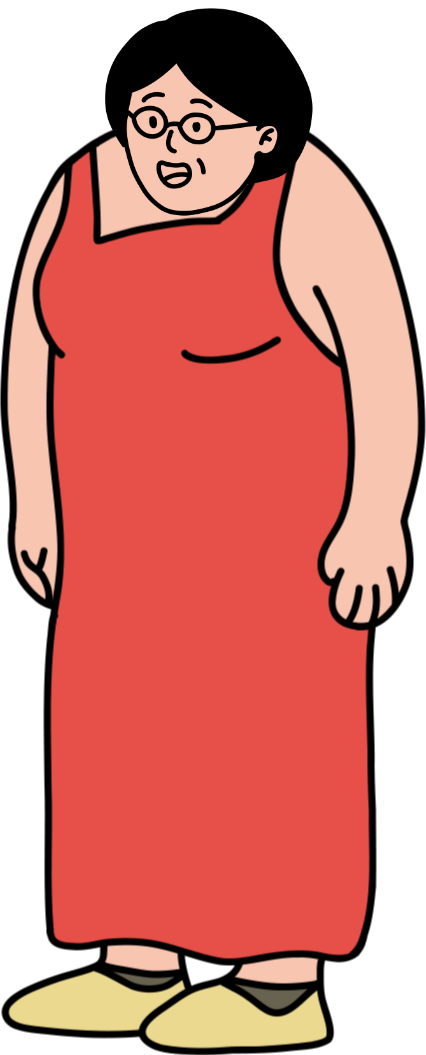
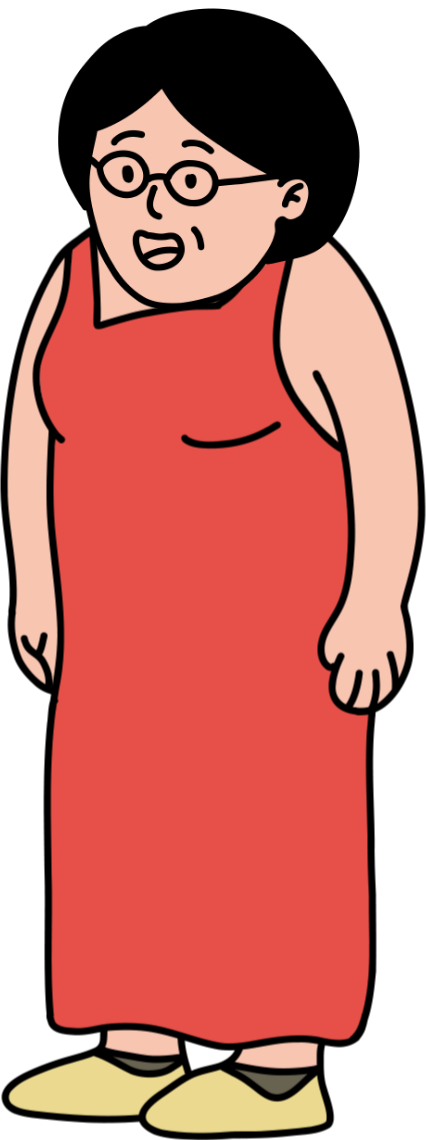
Enlarge Abuela's head for better proportion
Increase the face size on every pose (head.h ~0.18-0.22 -> 0.26-0.32),
keeping the chin anchored at the collar so the head grows upward. Refresh
the composed dock preview to match.

Changed region(s): [[0.0, 0.0, 1.0, 0.7886], [0.0, 0.819, 0.885, 1.0], [0.3052, 0.0, 0.4272, 0.0303]]

diff --git a/assets/manifest.js b/assets/manifest.js
@@ -50,19 +50,19 @@ window.SCENE_MANIFEST = {
    * image, used to size the figure on the stage. */
   poses: [
     { id: "standing", label: "Standing", body: "public/_empty.png", aspect: 0.451,
-      head: { cx: 0.49, by: 0.11, h: 0.22 },
+      head: { cx: 0.49, by: 0.12, h: 0.32 },
       outfits: { red: "public/Red - Standing.png", yellow: "public/Yellow - Standing.png" },
       faces:   { normal: "public/Face Normal.png", happy: "public/Face Happy.png", sad: "public/Face Sad.png", mad: "public/Face Mad.png" } },
     { id: "pointing", label: "Pointing", body: "public/_empty.png", aspect: 0.727,
-      head: { cx: 0.61, by: 0.15, h: 0.20 },
+      head: { cx: 0.61, by: 0.16, h: 0.29 },
       outfits: { red: "public/Red - Pointing.png", yellow: "public/Yellow - Pointing.png" },
       faces:   { normal: "public/Face Normal.png", happy: "public/Face Happy.png", sad: "public/Face Sad.png", mad: "public/Face Mad.png" } },
     { id: "running", label: "Running", body: "public/_empty.png", aspect: 0.836,
-      head: { cx: 0.53, by: 0.13, h: 0.22 },
+      head: { cx: 0.53, by: 0.14, h: 0.32 },
       outfits: { red: "public/Red - Running.png", yellow: "public/Yellow - Running.png" },
       faces:   { normal: "public/Face Normal.png", happy: "public/Face Happy.png", sad: "public/Face Sad.png", mad: "public/Face Mad.png" } },
     { id: "armsup", label: "Arms Up", body: "public/_empty.png", aspect: 0.606,
-      head: { cx: 0.50, by: 0.31, h: 0.18 },
+      head: { cx: 0.50, by: 0.33, h: 0.26 },
       outfits: { red: "public/Red - Arms Up.png", yellow: "public/Yellow - Arms Up.png" },
       faces:   { normal: "public/Face Normal.png", happy: "public/Face Happy.png", sad: "public/Face Sad.png", mad: "public/Face Mad.png" } },
   ],
